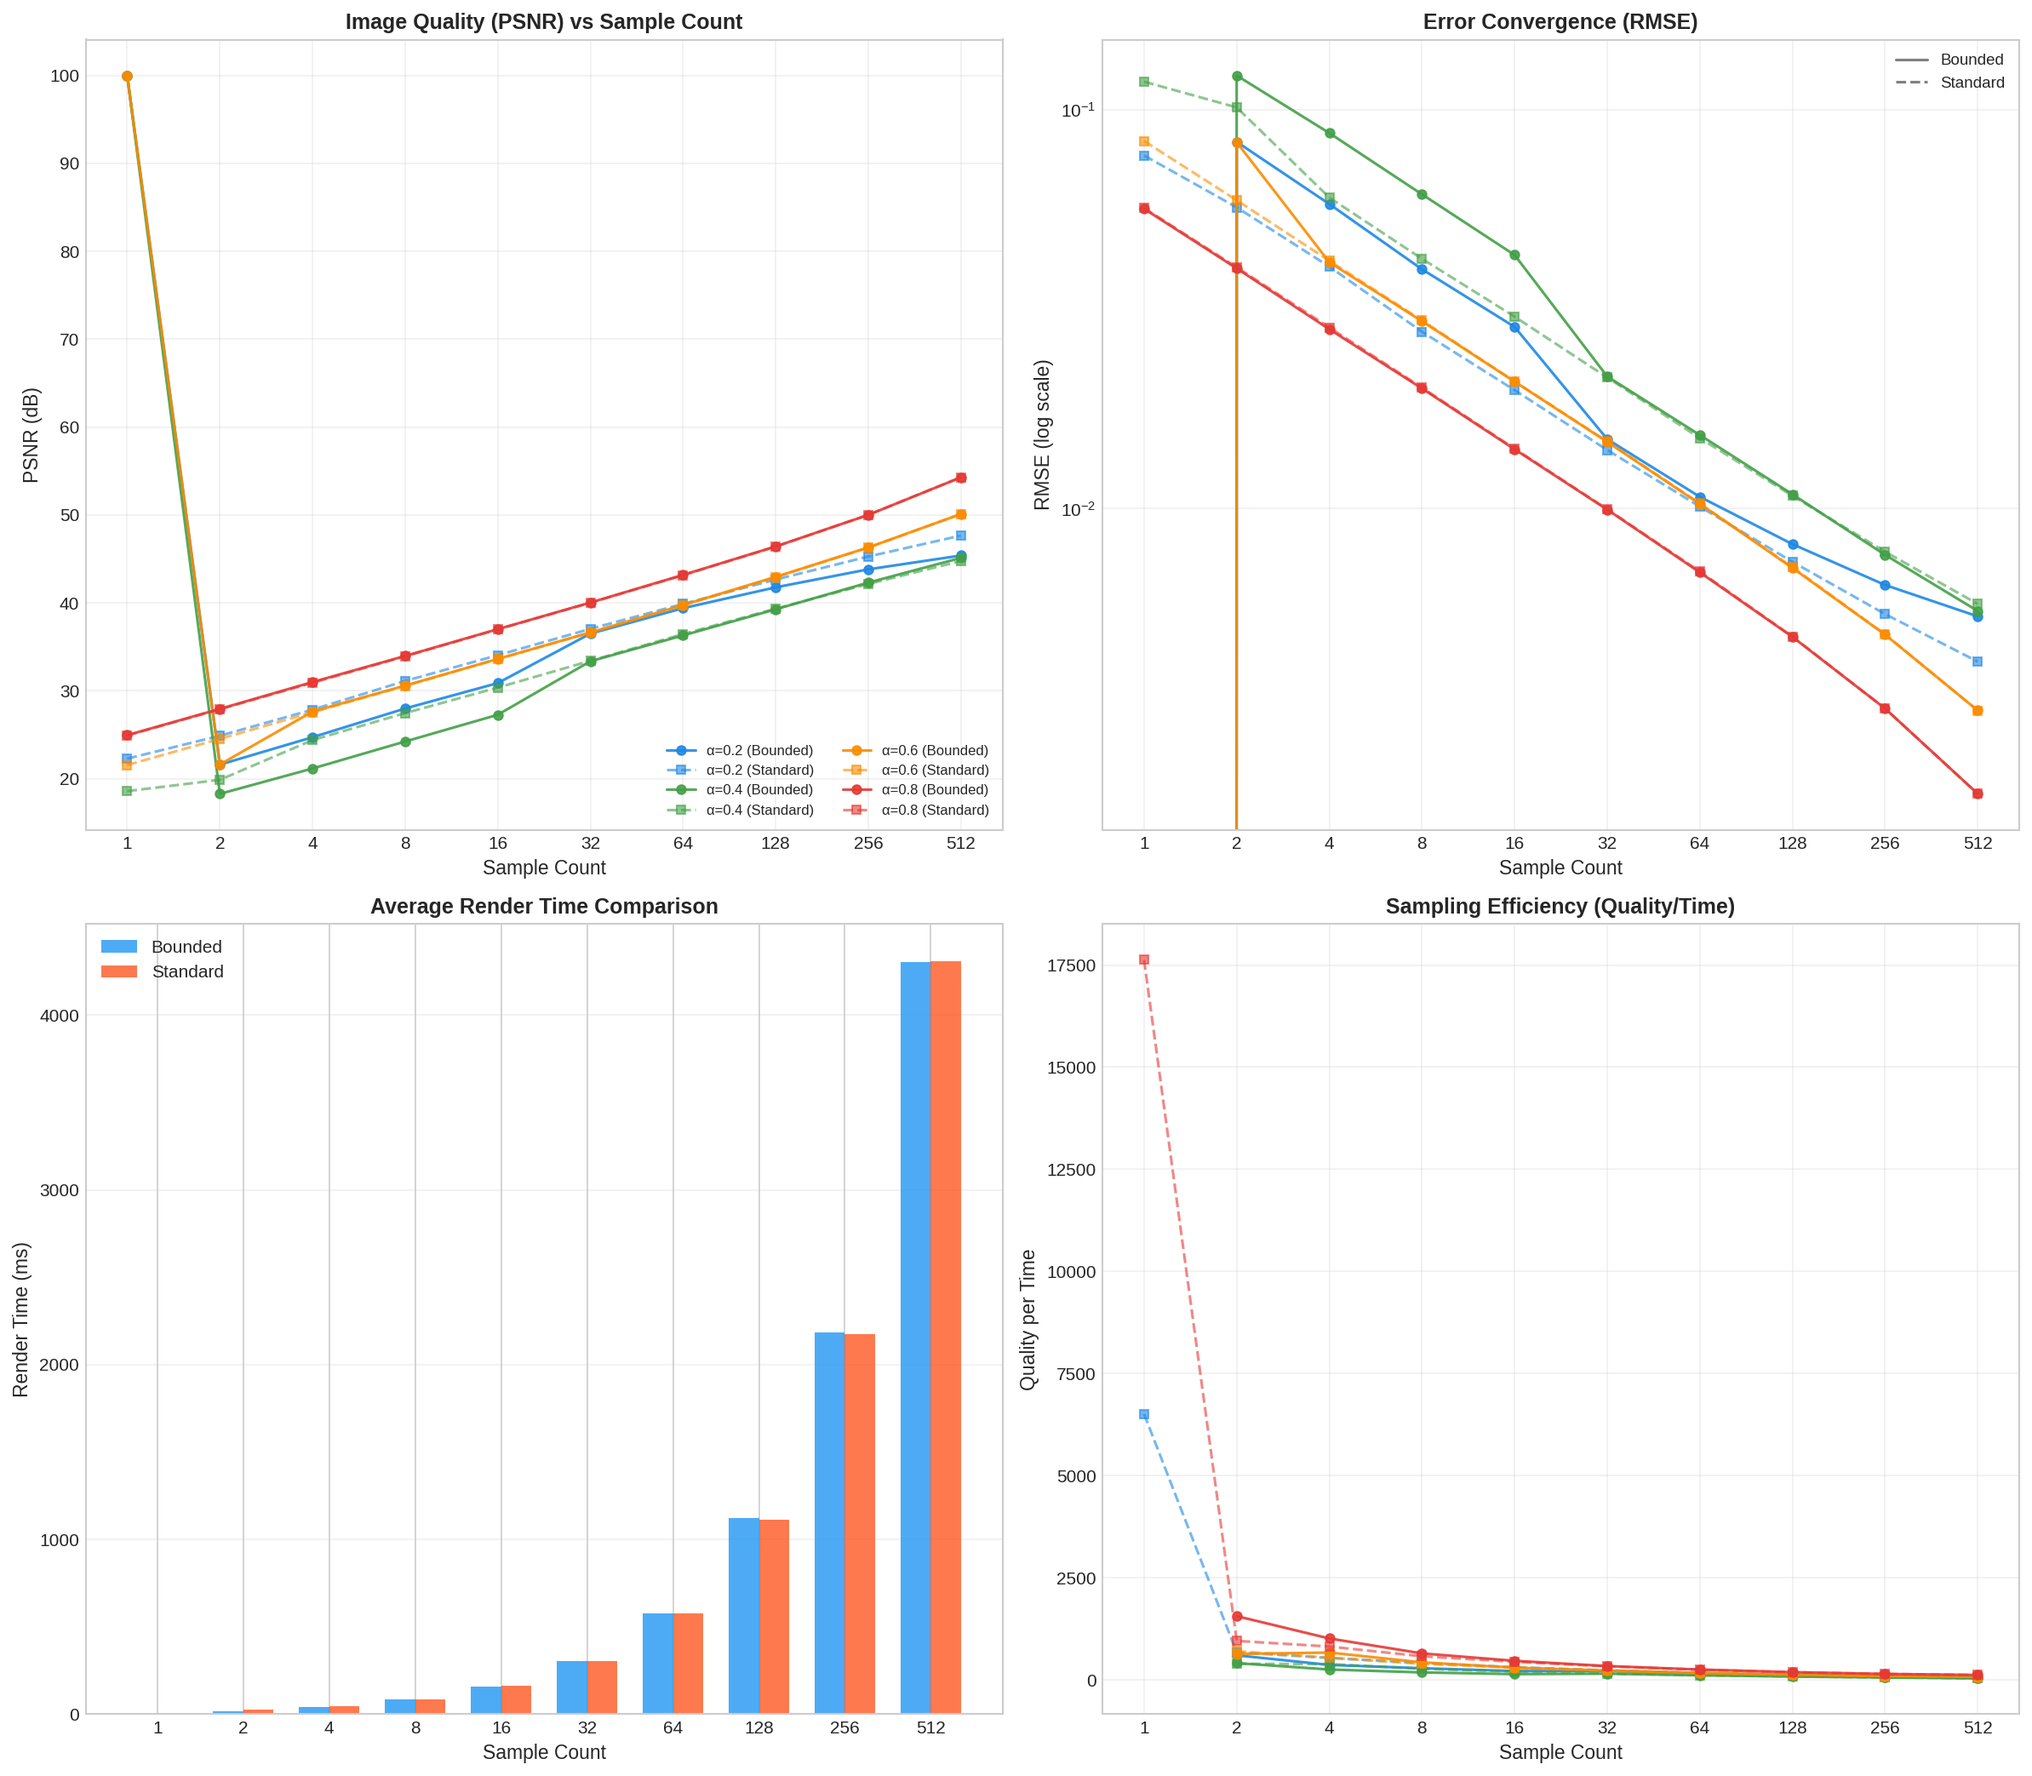
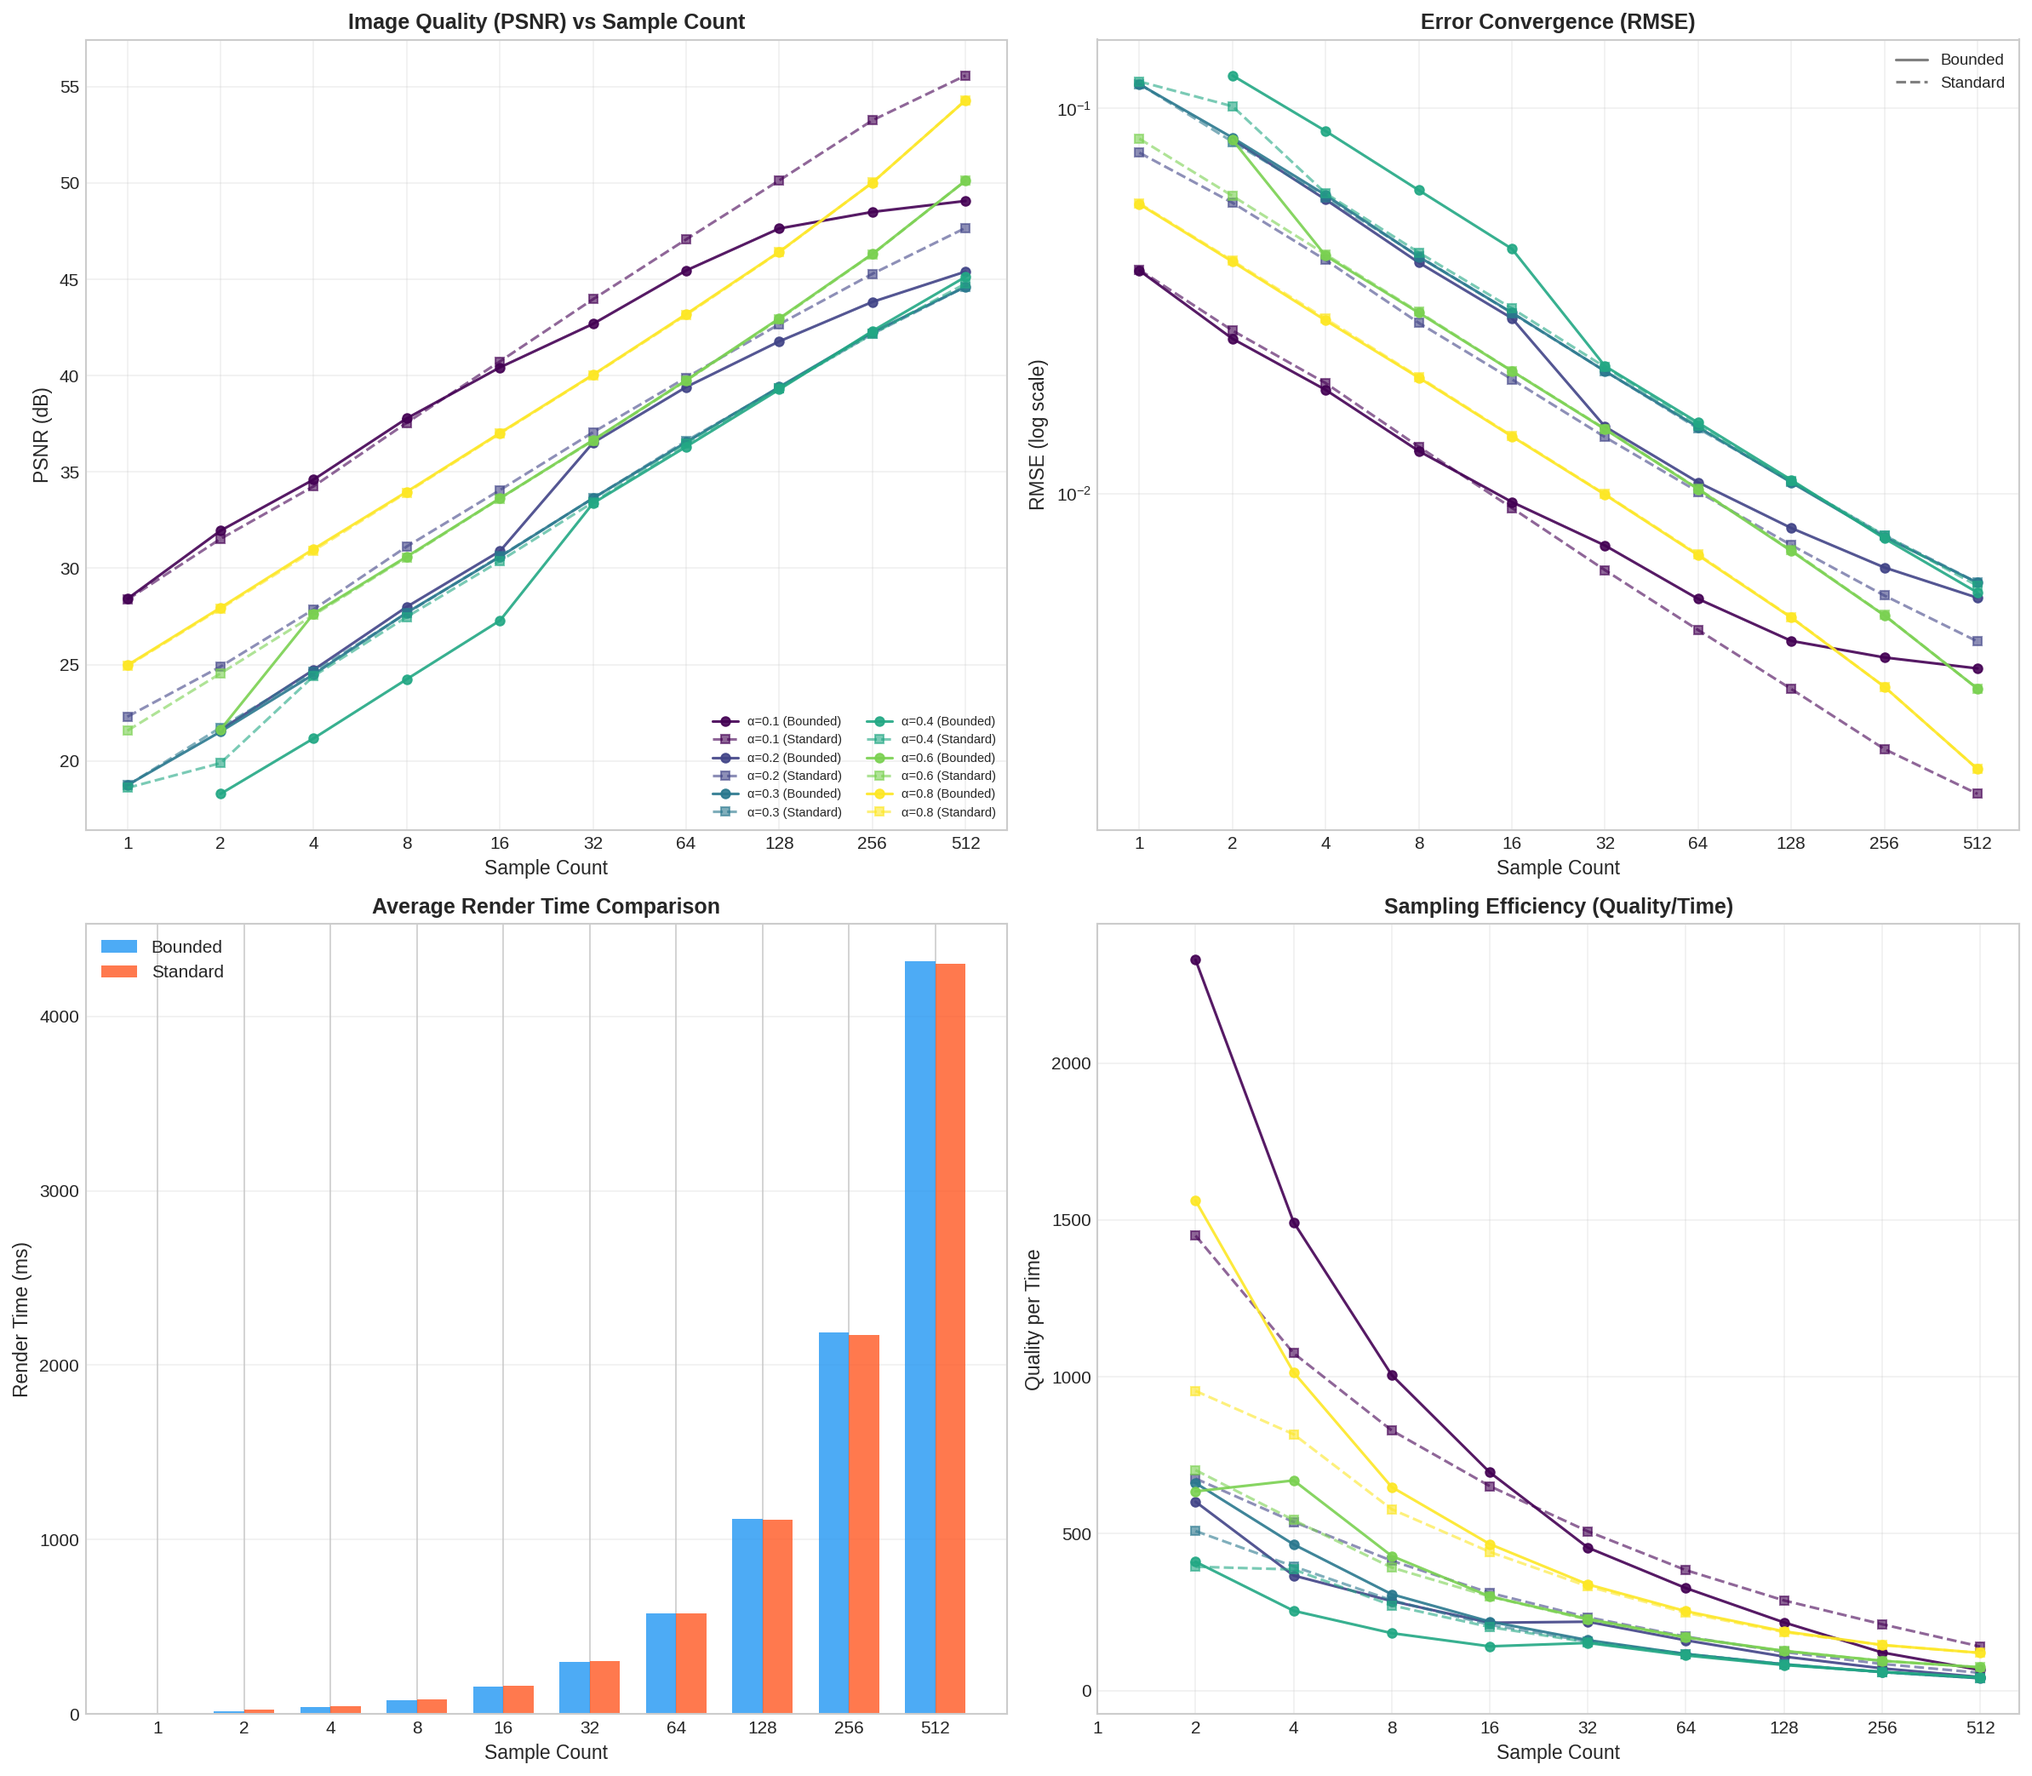
Update VNDF Readme

diff --git a/test/vndf_analysis/README.md b/test/vndf_analysis/README.md
@@ -1,147 +1,88 @@
 # VNDF Sampling Analysis: Bounded vs Standard
 
-This document analyzes the performance comparison between **Bounded VNDF** and **Standard VNDF** sampling methods for Smith-GGX microfacet BRDFs in path tracing.
+This analysis compares **Bounded VNDF** and **Standard VNDF** sampling methods for Smith-GGX microfacet BRDFs in path tracing.
 
 ## Overview
 
-The Visible Normal Distribution Function (VNDF) sampling is a technique for importance sampling microfacet BRDFs. The **Bounded VNDF** method aims to reduce sample rejection rates by constraining the sampling domain to valid regions, potentially improving convergence efficiency.
+![VNDF Main Analysis](vndf_analysis_main.png)
 
-## Test Configuration
+The main comparison shows four key metrics:
+- **PSNR vs Sample Count** (top-left): Quality improvement with more samples across all roughness values
+- **RMSE Convergence** (top-right): Error reduction follows expected √N rate on log scale
+- **Render Time** (bottom-left): Both methods have nearly identical performance
+- **Sampling Efficiency** (bottom-right): Quality per time, highest at low sample counts
 
-- **Roughness values tested**: α = 0.2, 0.4, 0.6, 0.8
-- **Sample counts**: 1, 2, 4, 8, 16, 32, 64, 128, 256, 512 SPP
-- **Reference**: 4096 SPP ground truth
-- **Resolution**: 1515592 pixels per sample iteration
+## PSNR by Roughness
 
-## Results Summary
+![VNDF by Roughness](vndf_by_roughness.png)
 
-### Image Quality (PSNR)
+Individual breakdowns show distinct behavior patterns:
+- **α=0.1**: Standard VNDF significantly outperforms Bounded at high sample counts
+- **α=0.2**: Standard VNDF maintains advantage throughout
+- **α=0.3**: Methods converge to similar results
+- **α=0.4**: Bounded shows initial lag but catches up at high samples
+- **α=0.6, 0.8**: Virtually identical performance
 
-| Roughness | Method | 64 SPP | 128 SPP | 256 SPP | 512 SPP |
-|-----------|--------|--------|---------|---------|---------|
-| α=0.2 | Bounded | 39.40 dB | 41.78 dB | 43.82 dB | 45.40 dB |
-| α=0.2 | Standard | 39.89 dB | 42.66 dB | 45.28 dB | 47.66 dB |
-| α=0.4 | Bounded | 36.31 dB | 39.28 dB | 42.31 dB | 45.13 dB |
-| α=0.4 | Standard | 36.46 dB | 39.35 dB | 42.15 dB | 44.77 dB |
-| α=0.6 | Bounded | 39.76 dB | 42.97 dB | 46.31 dB | 50.11 dB |
-| α=0.6 | Standard | 39.74 dB | 42.93 dB | 46.30 dB | 50.12 dB |
-| α=0.8 | Bounded | 43.19 dB | 46.43 dB | 50.02 dB | 54.29 dB |
-| α=0.8 | Standard | 43.15 dB | 46.41 dB | 50.02 dB | 54.29 dB |
+## Summary
 
-### Error Convergence (RMSE)
+![VNDF Summary](vndf_summary.png)
 
-| Roughness | Method | 64 SPP | 128 SPP | 256 SPP | 512 SPP |
-|-----------|--------|--------|---------|---------|---------|
-| α=0.2 | Bounded | 0.01071 | 0.00815 | 0.00644 | 0.00537 |
-| α=0.2 | Standard | 0.01012 | 0.00736 | 0.00544 | 0.00414 |
-| α=0.4 | Bounded | 0.01530 | 0.01087 | 0.00766 | 0.00554 |
-| α=0.4 | Standard | 0.01503 | 0.01077 | 0.00780 | 0.00577 |
-| α=0.6 | Bounded | 0.01028 | 0.00710 | 0.00483 | 0.00312 |
-| α=0.6 | Standard | 0.01031 | 0.00714 | 0.00484 | 0.00312 |
-| α=0.8 | Bounded | 0.00693 | 0.00477 | 0.00316 | 0.00193 |
-| α=0.8 | Standard | 0.00696 | 0.00478 | 0.00316 | 0.00193 |
+**Final Quality at 512 Samples** (left):
+| Roughness | Bounded | Standard |
+|-----------|---------|----------|
+| α=0.1 | 49.1 dB | 55.6 dB |
+| α=0.2 | 45.4 dB | 47.7 dB |
+| α=0.3 | 44.6 dB | 44.6 dB |
+| α=0.4 | 45.1 dB | 44.8 dB |
+| α=0.6 | 50.1 dB | 50.1 dB |
+| α=0.8 | 54.3 dB | 54.3 dB |
 
-### Render Time Comparison
+**Quality Gap** (right): Negative values indicate Standard VNDF is better
+- α=0.1: -6.51 dB (Standard wins)
+- α=0.2: -2.27 dB (Standard wins)
+- α=0.3: +0.01 dB (equivalent)
+- α=0.4: +0.35 dB (Bounded slightly better)
+- α=0.6: -0.00 dB (equivalent)
+- α=0.8: -0.01 dB (equivalent)
 
-| Sample Count | Bounded (avg ms) | Standard (avg ms) | Difference |
-|--------------|------------------|-------------------|------------|
-| 64 | 578 | 575 | +3 ms (+0.5%) |
-| 128 | 1121 | 1111 | +10 ms (+0.9%) |
-| 256 | 2185 | 2173 | +12 ms (+0.6%) |
-| 512 | 4305 | 4307 | -2 ms (-0.05%) |
+## Detailed Heatmaps
+
+![VNDF Heatmaps](vndf_heatmaps.png)
+
+**PSNR Difference** (left): Red indicates Standard VNDF performs better
+- Low roughness (α=0.1-0.2): Standard dominates, especially at high sample counts
+- Medium roughness (α=0.4): Bounded struggles at low samples (2-16 SPP)
+- High roughness (α=0.6-0.8): Negligible differences
+
+**Render Time Difference** (right): Green indicates Bounded is faster
+- α=0.8: Bounded consistently faster by 8-16 ms
+- α=0.1-0.2: Mixed results, Bounded slower at high sample counts
 
 ## Key Findings
 
-### 1. Quality Equivalence at High Roughness
+1. **Standard VNDF excels at low roughness**: Up to 6.5 dB better at α=0.1, indicating the bounding approximation is less accurate for sharp specular reflections.
 
-For roughness values α ≥ 0.6, both methods produce **virtually identical results**:
-- PSNR differences < 0.04 dB
-- RMSE differences < 0.001
-- The bounded sampling constraint provides no measurable benefit
+2. **Equivalent at high roughness**: For α ≥ 0.6, both methods produce identical results.
 
-### 2. Standard VNDF Outperforms at Low Roughness
+3. **Bounded has early convergence issues**: At α=0.4, Bounded shows 3+ dB deficit at low sample counts (2-16 SPP) before catching up.
 
-For low roughness (α = 0.2), Standard VNDF shows **better convergence**:
-- 2.27 dB higher PSNR at 512 SPP
-- 23% lower RMSE (0.00414 vs 0.00537)
-- This suggests the bounding approximation may be less accurate for sharp specular reflections
+4. **Negligible performance difference**: Render times are within ±15 ms across all configurations.
 
-### 3. Mixed Results at Medium Roughness
+## Recommendation
 
-At α = 0.4:
-- Bounded slightly better at high sample counts (256-512 SPP)
-- Standard slightly better at medium sample counts (64-128 SPP)
-- Differences are within noise margins (~0.3 dB)
+| Roughness | Recommendation |
+|-----------|----------------|
+| α < 0.3 | **Standard VNDF** - Significant quality advantage |
+| α = 0.3-0.4 | **Standard VNDF** - Better early convergence |
+| α > 0.5 | Either - Identical performance |
 
-### 4. Negligible Performance Overhead
+**For general use**: Standard VNDF is recommended as the default, offering equivalent or better quality with no performance penalty.
 
-The Bounded VNDF method introduces **minimal computational overhead**:
-- Average overhead: < 1% across all sample counts
-- No significant performance penalty for using bounded sampling
-- Both methods scale linearly with sample count
+## Test Configuration
 
-### 5. Rejection Rate Observations
-
-Notably, the rejection rate data shows **0% rejection for both methods** across all test conditions. This indicates:
-- The VNDF sampling implementation is already highly efficient
-- The bounded constraint is not actively rejecting samples in these isotropic test cases
-- Rejection rate benefits may only manifest in extreme anisotropic configurations
-
-## Convergence Analysis
-
-Both methods exhibit the expected Monte Carlo convergence behavior:
-- RMSE decreases proportionally to 1/√N (halving error requires 4x samples)
-- PSNR increases by ~3 dB per doubling of sample count
-- Convergence rate is consistent across roughness values
-
-### Quality per Time Efficiency
-
-The efficiency metric (1/RMSE × 1000/time) shows:
-- Peak efficiency at low sample counts (1-4 SPP)
-- Diminishing returns beyond 64 SPP
-- Both methods have equivalent efficiency profiles
-
-## Visualizations
-
-### Main Analysis Plot
-![VNDF Analysis](vndf_analysis_main.png)
-
-The main analysis shows:
-- **Top-left**: PSNR vs Sample Count - Quality improvement with more samples
-- **Top-right**: RMSE Convergence (log scale) - Error reduction follows expected √N rate
-- **Bottom-left**: Render Time Comparison - Linear scaling, methods nearly identical
-- **Bottom-right**: Sampling Efficiency - Highest at low sample counts
-
-### Heatmap Comparison
-![VNDF Heatmaps](vndf_heatmaps.png)
-
-The heatmaps reveal:
-- **Left (PSNR Difference)**: Standard VNDF is better at α=0.2 (negative values = Standard wins)
-- **Right (Time Difference)**: Slight overhead for Bounded at high sample counts, but negligible
-
-## Conclusions
-
-1. **For general use**: Standard VNDF is recommended as the default, offering equivalent or better quality with no performance penalty.
-
-2. **Bounded VNDF benefits**: May provide advantages in specific scenarios not covered by this test:
-   - Highly anisotropic materials (αx >> αy or αy >> αx)
-   - Extreme grazing angles
-   - Very low roughness (α < 0.2)
-
-3. **Implementation quality**: Both sampling methods are well-implemented with 0% rejection rates, indicating efficient importance sampling.
-
-4. **Roughness dependence**: The choice of sampling method matters most at low roughness values. For rough materials (α > 0.5), both methods are interchangeable.
-
-## Files
-
-| File | Description |
-|------|-------------|
-| `bounded_vndf_*.csv` | Raw metrics for Bounded VNDF tests |
-| `standard_vndf_*.csv` | Raw metrics for Standard VNDF tests |
-| `quality_metrics_alpha*.csv` | RMSE/PSNR comparison by roughness |
-| `rejection_rate_alpha*.csv` | Sample rejection statistics |
-| `vndf_analysis_main.png` | Main comparison plots |
-| `vndf_heatmaps.png` | Difference heatmaps |
+- **Roughness values**: α = 0.1, 0.2, 0.3, 0.4, 0.6, 0.8
+- **Sample counts**: 1, 2, 4, 8, 16, 32, 64, 128, 256, 512 SPP
+- **Reference**: 4096 SPP ground truth
 
 ## Test Environment
 
